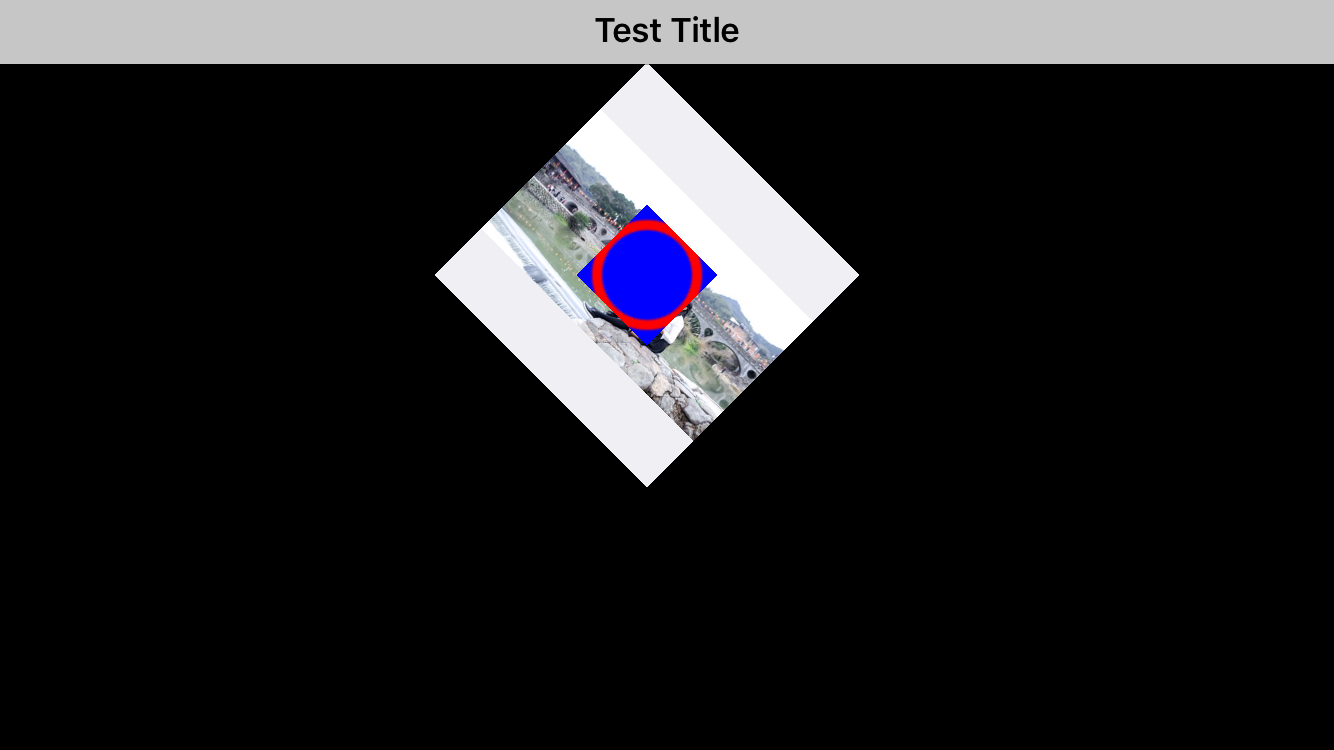
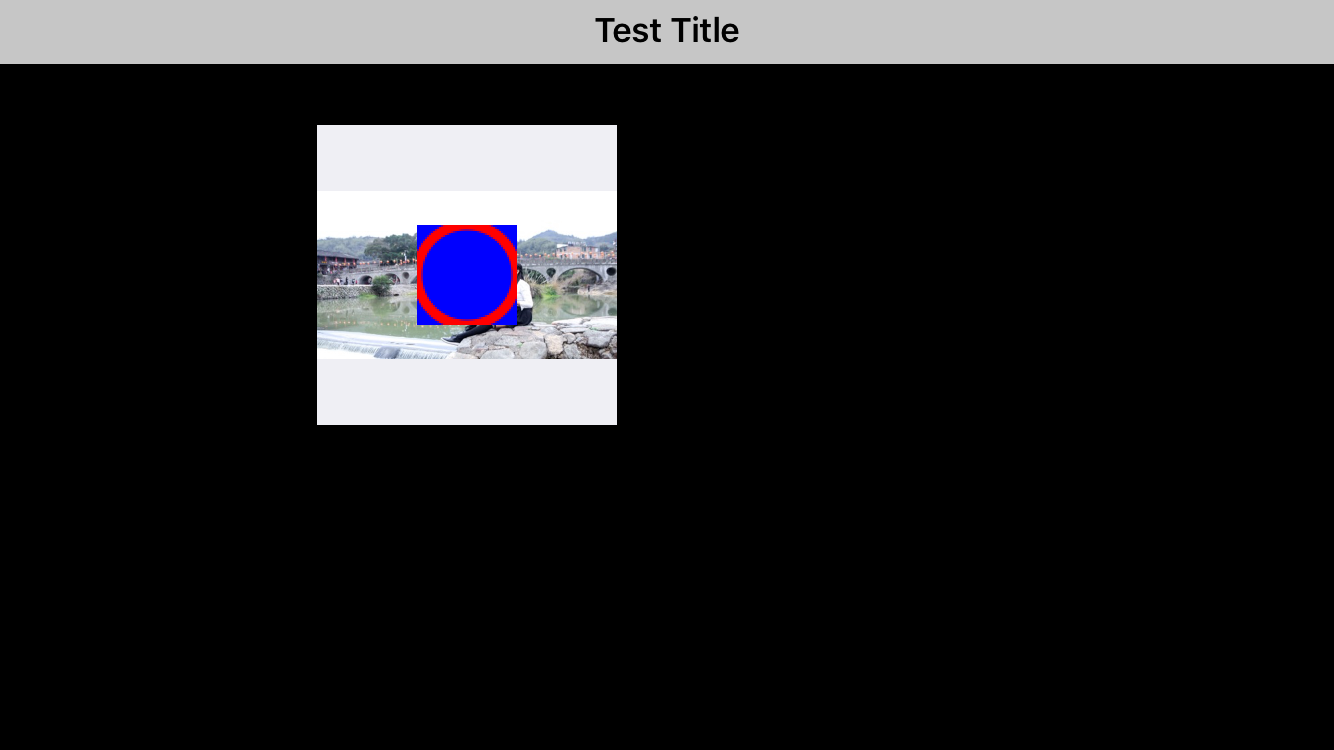
update

Changed region(s): [[0.2151, 0.092, 0.6454, 0.644]]

diff --git a/README.md b/README.md
@@ -928,6 +928,14 @@ _layerView.transform = CGAffineTransformMakeRotation(M_PI_4);
 ![testdemo1](https://github.com/dengfeng520/iOSNotes/blob/master/testdemo1.png?raw=true)
 
 ```
+// X轴偏移量 Y轴偏移量
+_layerView.transform = CGAffineTransformMakeScale(-100, -50);
+
+```
+效果图:
+![testdemo1](https://github.com/dengfeng520/iOSNotes/blob/master/testdemo2.png?raw=true)
+
+```
 // 组合仿射  组合的同时，偏移X、Y轴坐标
 CGAffineTransform viewTransform = CGAffineTransformConcat(CGAffineTransformMakeRotation(M_PI_4),CGAffineTransformMakeTranslation(-10, -50));
 _layerView.transform = viewTransform;
@@ -935,7 +943,7 @@ _layerView.transform = viewTransform;
 ```
 效果图:
 
-![testdemo2](https://github.com/dengfeng520/iOSNotes/blob/master/testdemo2.png?raw=true)
+![testdemo2](https://github.com/dengfeng520/iOSNotes/blob/master/testdemo3.png?raw=true)
 
 
 
